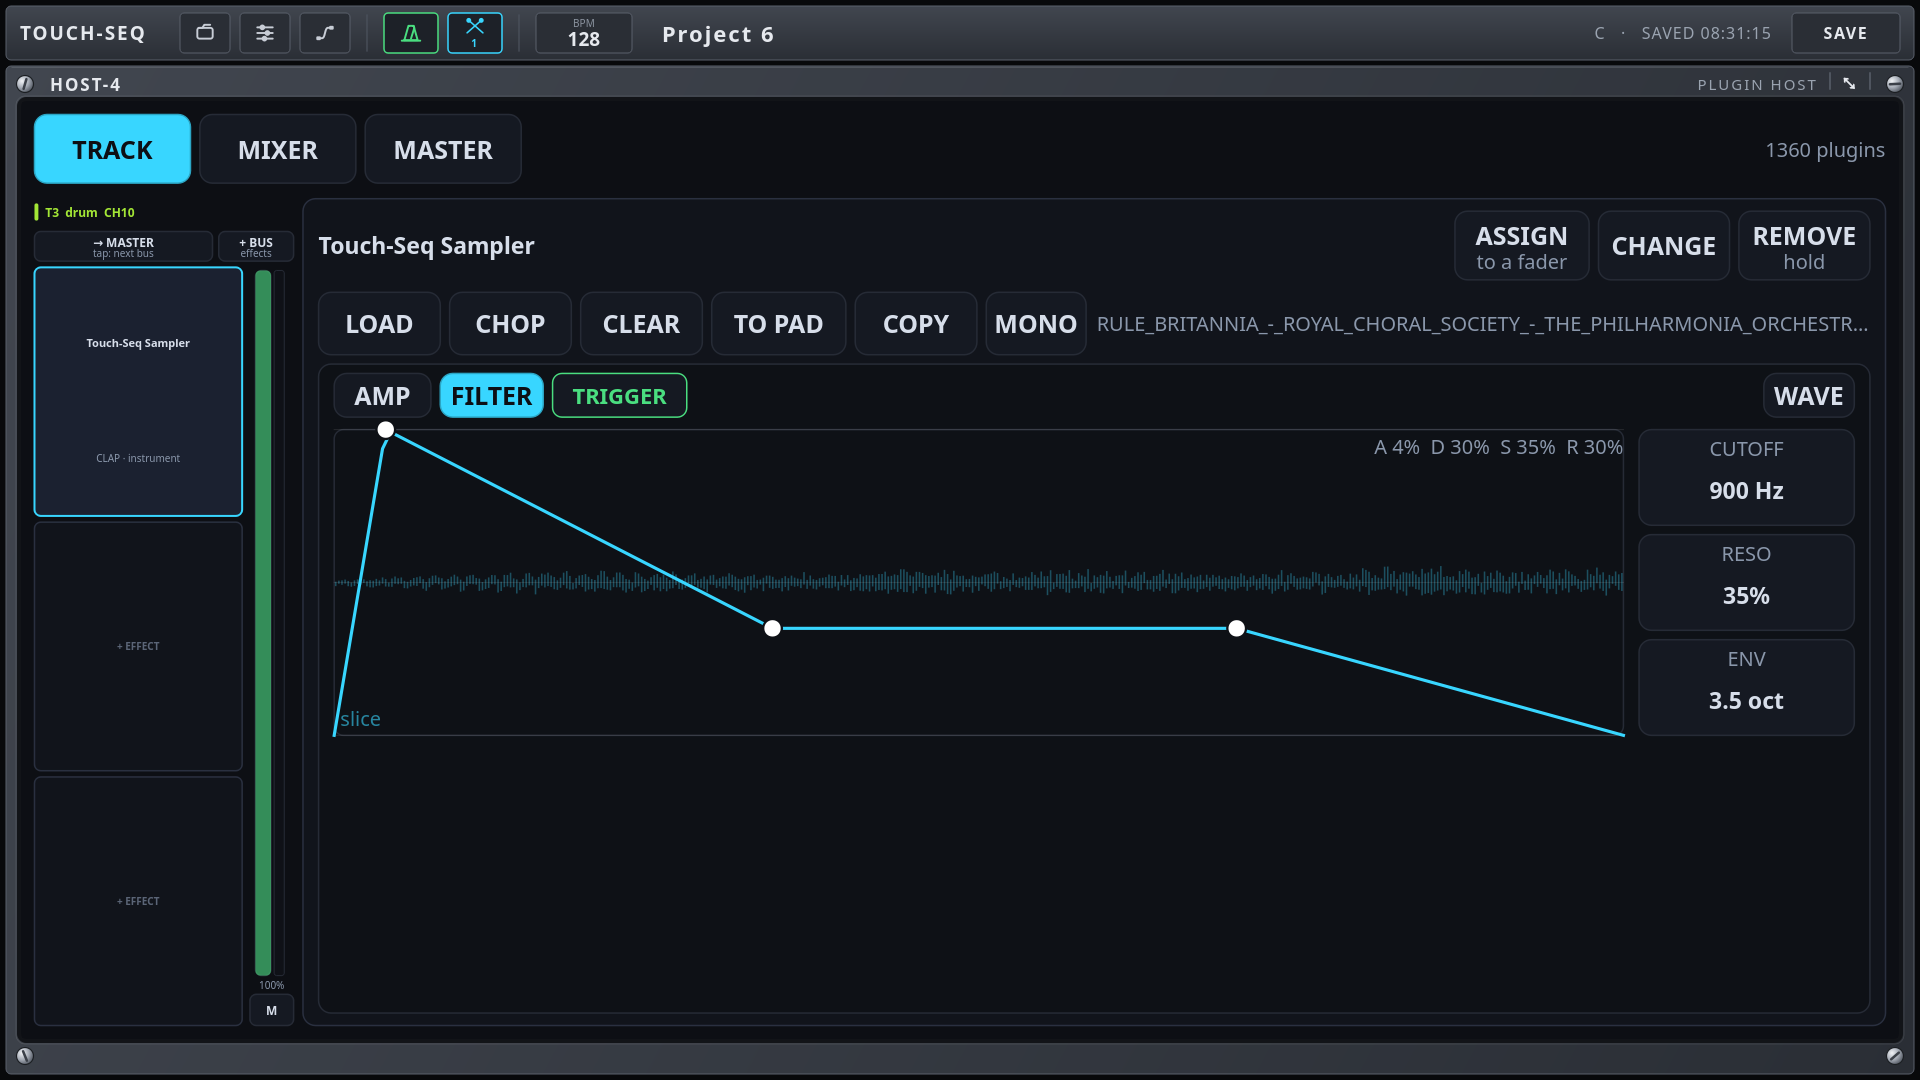
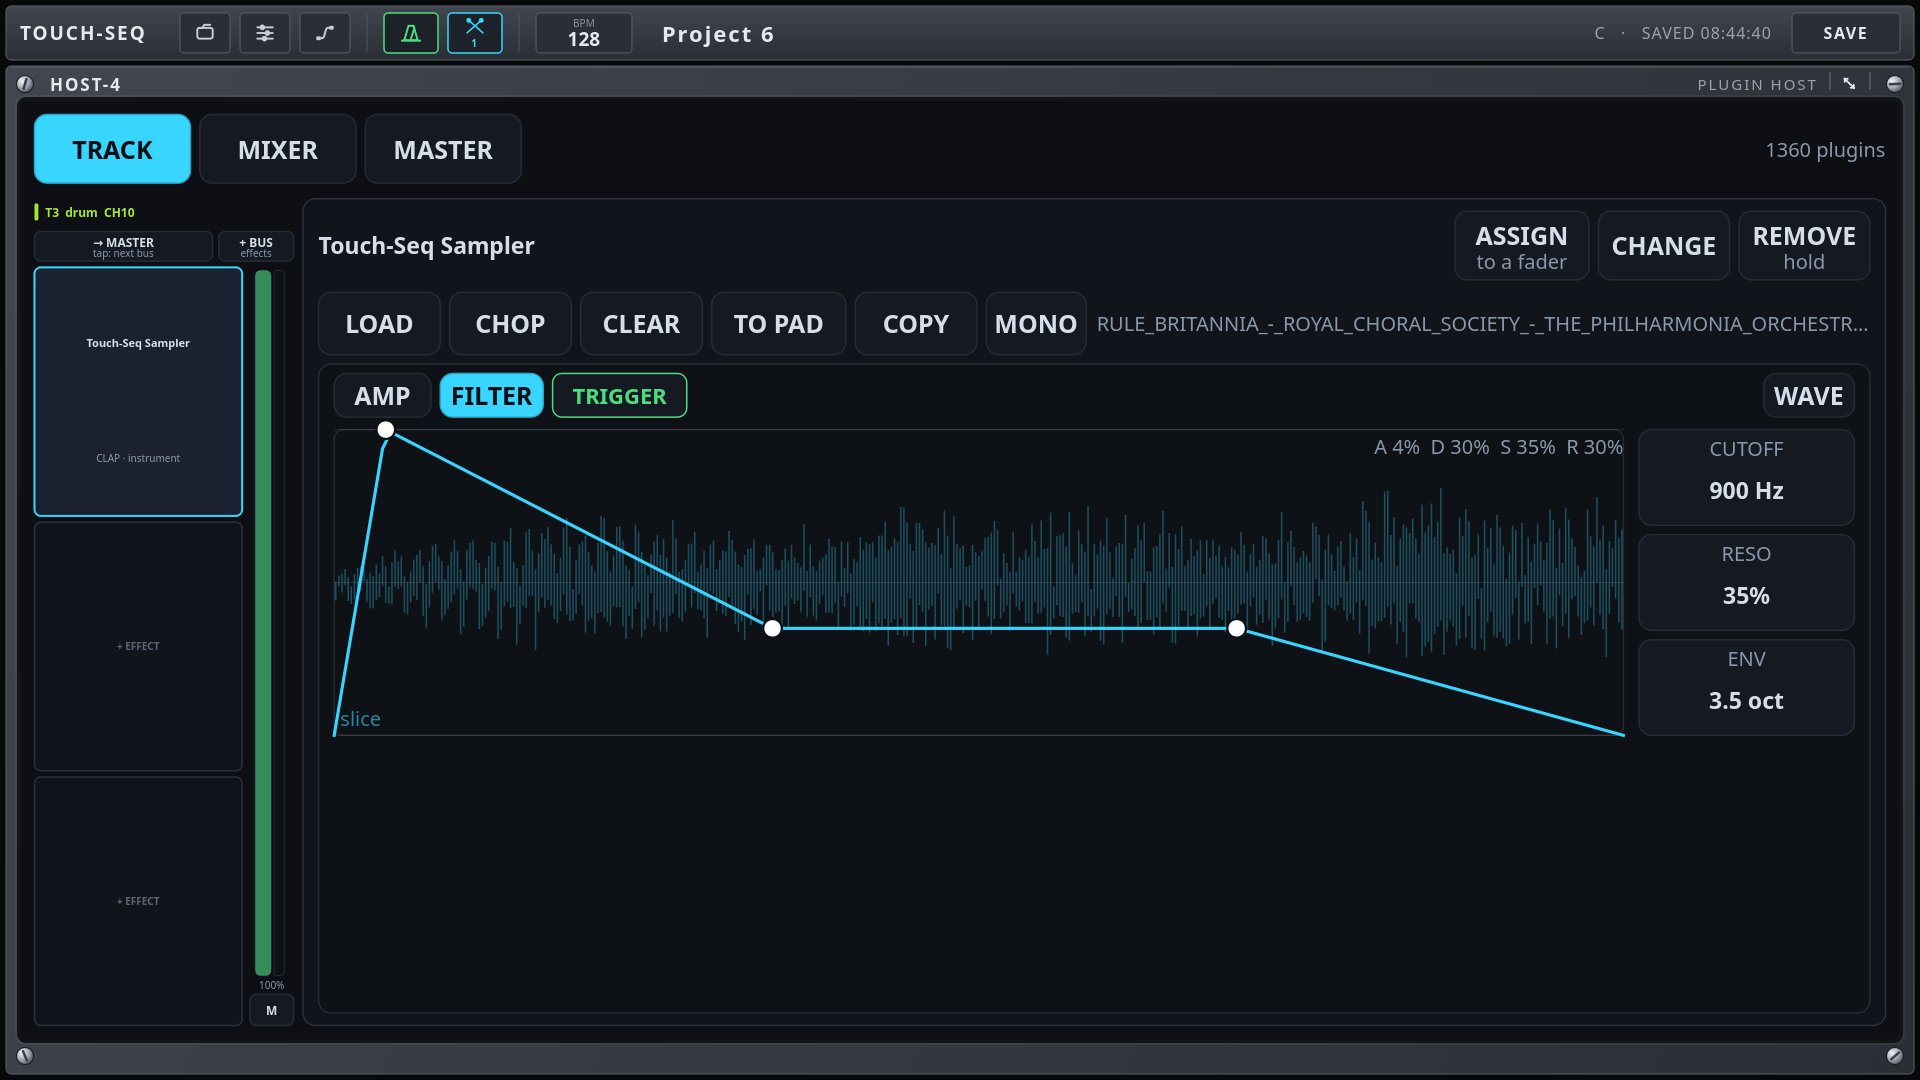
sampler: ADSR ghost behind the curve, trigger and reverse

Changed region(s): [[0.1875, 0.4583, 0.8438, 0.6111]]

diff --git a/tseq/sampler.py b/tseq/sampler.py
@@ -988,12 +988,15 @@ class SamplerEditor:
             self.peak_cache[key] = values
 
         self.panel.box(p, area, "#0e1116", BORDER, radius=6)
-        # the slice itself, behind everything, dim: the range the envelope is drawn over
+        # the slice itself, behind everything: the range the envelope is drawn over. A quiet slice is scaled
+        # up so it stays visible as a ghost rather than a flat line.
+        peak = max((max(abs(low), abs(high)) for low, high in values), default=0.0)
+        gain = min(6.0, 0.9 / max(0.03, peak))
         p.setPen(QPen(QColor(56, 214, 255, 80), 1.0 * s))
         for n, (low, high) in enumerate(values):
             x = area.left() + (n + 0.5) * area.width() / max(1, len(values))
-            y0 = area.center().y() - high * area.height() * 0.42
-            y1 = area.center().y() - low * area.height() * 0.42
+            y0 = area.center().y() - max(-1.0, min(1.0, high * gain)) * area.height() * 0.42
+            y1 = area.center().y() - max(-1.0, min(1.0, low * gain)) * area.height() * 0.42
             p.drawLine(QPointF(x, y0), QPointF(x, y1))
         self.panel.text(p, area.adjusted(4 * s, 0, 0, -2 * s), "slice",
                         QColor(56, 214, 255, 150), 10, Qt.AlignLeft | Qt.AlignBottom)
